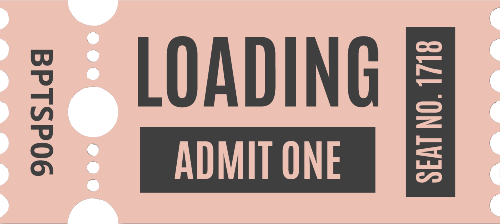
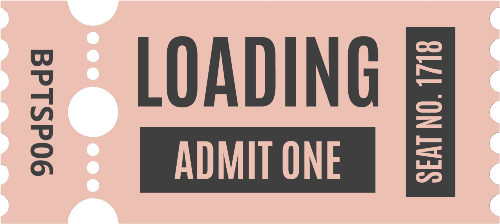
Push imagenes de frame loading

diff --git a/src/view/Loading.java b/src/view/Loading.java
@@ -1,5 +1,6 @@
 package view;
 
+import java.awt.Color;
 import javax.swing.ImageIcon;
 
 public class Loading extends javax.swing.JFrame {
@@ -8,6 +9,7 @@ public class Loading extends javax.swing.JFrame {
         initComponents();
         setIconImage(new ImageIcon(getClass().getResource("../images/icono.png")).getImage());
         this.setLocationRelativeTo(null);
+        setBackground(new Color(0, 0, 0, 0));
         this.setResizable(false);
     }
     
@@ -15,11 +17,6 @@ public class Loading extends javax.swing.JFrame {
     // <editor-fold defaultstate="collapsed" desc="Generated Code">//GEN-BEGIN:initComponents
     private void initComponents() {
 
-        jPanel2 = new javax.swing.JPanel();
-        jLabelSepArriba = new javax.swing.JLabel();
-        jLabelSepIzquierda = new javax.swing.JLabel();
-        jLabelSepDerecha = new javax.swing.JLabel();
-        jLabelSepAbajo = new javax.swing.JLabel();
         loadingBar = new javax.swing.JProgressBar();
         jLabelPic = new javax.swing.JLabel();
 
@@ -28,27 +25,10 @@ public class Loading extends javax.swing.JFrame {
         setUndecorated(true);
         setPreferredSize(new java.awt.Dimension(536, 268));
         getContentPane().setLayout(new org.netbeans.lib.awtextra.AbsoluteLayout());
-
-        jPanel2.setBackground(new java.awt.Color(255, 255, 255));
-        jPanel2.setLayout(new org.netbeans.lib.awtextra.AbsoluteLayout());
-
-        jLabelSepArriba.setIcon(new javax.swing.ImageIcon(getClass().getResource("/images/separador2.png"))); // NOI18N
-        jPanel2.add(jLabelSepArriba, new org.netbeans.lib.awtextra.AbsoluteConstraints(0, 0, -1, -1));
-
-        jLabelSepIzquierda.setIcon(new javax.swing.ImageIcon(getClass().getResource("/images/separador3.png"))); // NOI18N
-        jPanel2.add(jLabelSepIzquierda, new org.netbeans.lib.awtextra.AbsoluteConstraints(0, 8, -1, -1));
-
-        jLabelSepDerecha.setIcon(new javax.swing.ImageIcon(getClass().getResource("/images/separador3.png"))); // NOI18N
-        jPanel2.add(jLabelSepDerecha, new org.netbeans.lib.awtextra.AbsoluteConstraints(530, 8, -1, -1));
-
-        jLabelSepAbajo.setIcon(new javax.swing.ImageIcon(getClass().getResource("/images/separador2.png"))); // NOI18N
-        jPanel2.add(jLabelSepAbajo, new org.netbeans.lib.awtextra.AbsoluteConstraints(0, 260, -1, -1));
-        jPanel2.add(loadingBar, new org.netbeans.lib.awtextra.AbsoluteConstraints(165, 154, 220, 53));
+        getContentPane().add(loadingBar, new org.netbeans.lib.awtextra.AbsoluteConstraints(165, 154, 220, 53));
 
         jLabelPic.setIcon(new javax.swing.ImageIcon(getClass().getResource("/images/tickett.png"))); // NOI18N
-        jPanel2.add(jLabelPic, new org.netbeans.lib.awtextra.AbsoluteConstraints(18, 20, -1, -1));
-
-        getContentPane().add(jPanel2, new org.netbeans.lib.awtextra.AbsoluteConstraints(0, 0, 630, 340));
+        getContentPane().add(jLabelPic, new org.netbeans.lib.awtextra.AbsoluteConstraints(18, 20, -1, -1));
 
         pack();
     }// </editor-fold>//GEN-END:initComponents
@@ -79,11 +59,6 @@ public class Loading extends javax.swing.JFrame {
 
     // Variables declaration - do not modify//GEN-BEGIN:variables
     private javax.swing.JLabel jLabelPic;
-    private javax.swing.JLabel jLabelSepAbajo;
-    private javax.swing.JLabel jLabelSepArriba;
-    private javax.swing.JLabel jLabelSepDerecha;
-    private javax.swing.JLabel jLabelSepIzquierda;
-    private javax.swing.JPanel jPanel2;
     public javax.swing.JProgressBar loadingBar;
     // End of variables declaration//GEN-END:variables
 }

diff --git a/src/controller/Controlador.java b/src/controller/Controlador.java
@@ -8,7 +8,7 @@ import view.Principal;
 public class Controlador {
     
     public void iniciarSesion(Inicio inicio){
-        if(inicio.jTextFieldUsuario.getText().equals("admin") && inicio.jPasswordField.getText().equals("admin")){
+        if(inicio.jTextFieldUsuario.getText().trim().equals("admin") && inicio.jPasswordField.getText().equals("admin")){
             JOptionPane.showMessageDialog(inicio, "   ¡Inicio de sesión exitoso!");
             
             // Inicio frame Loading
